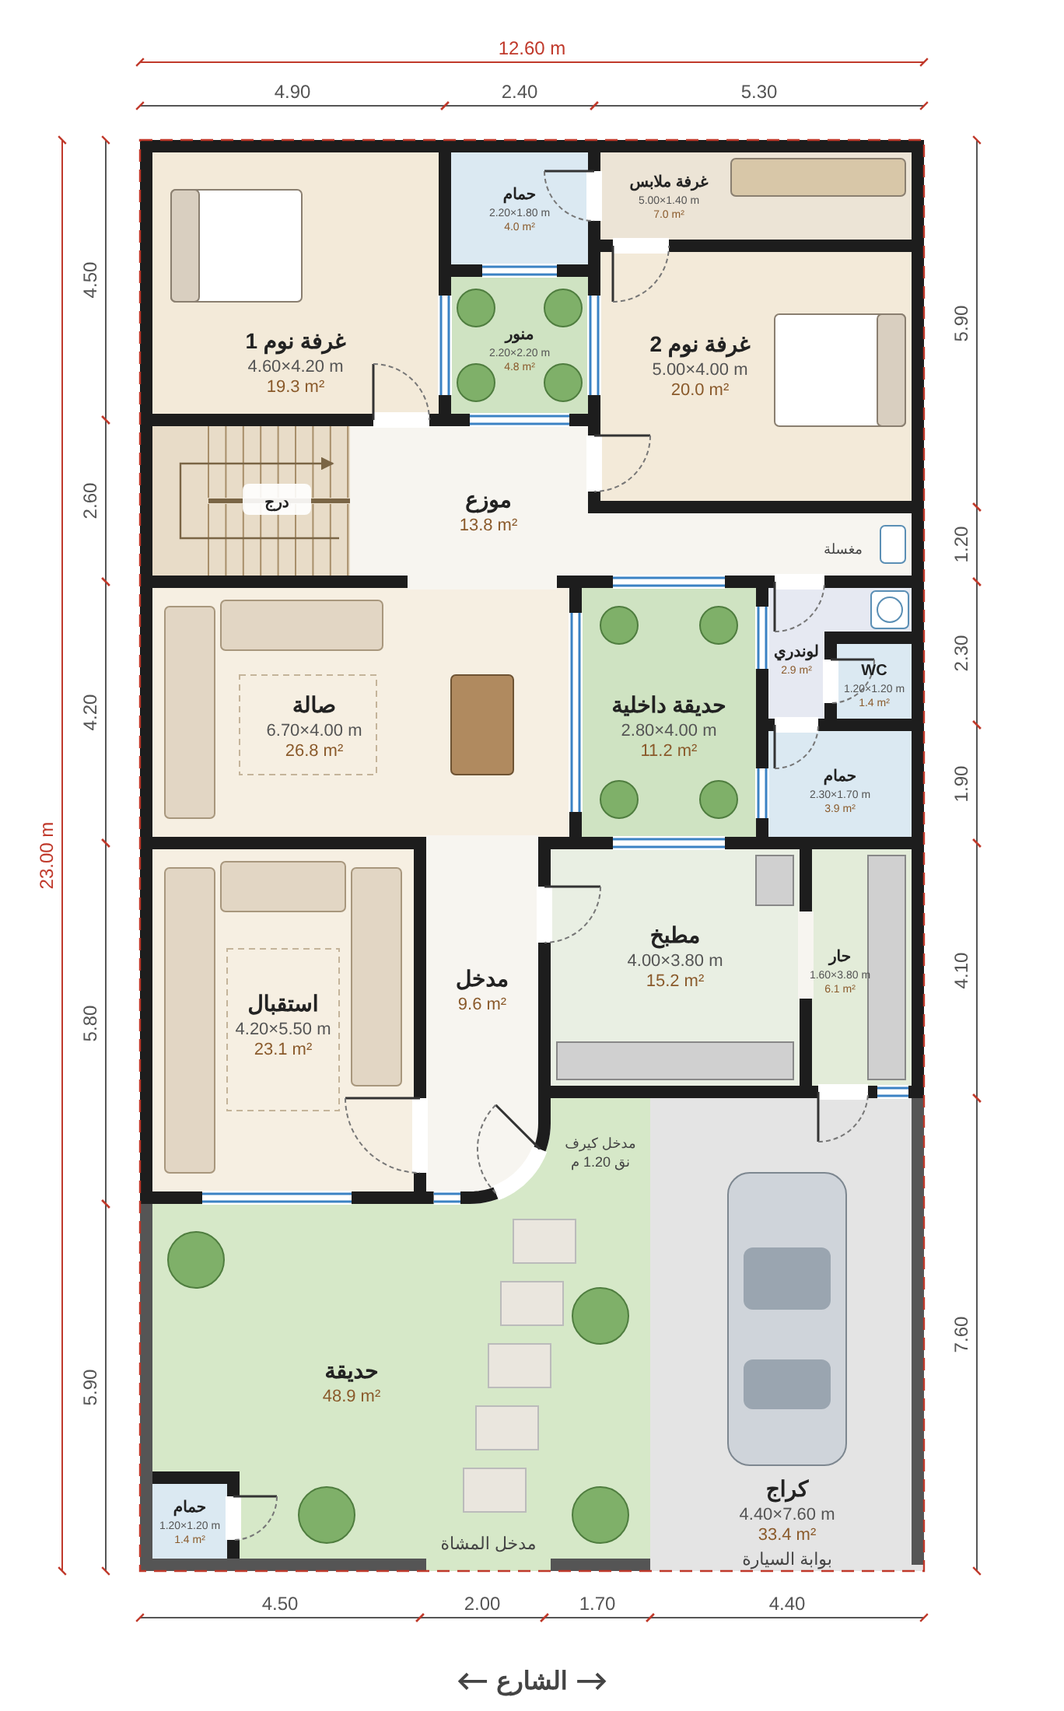
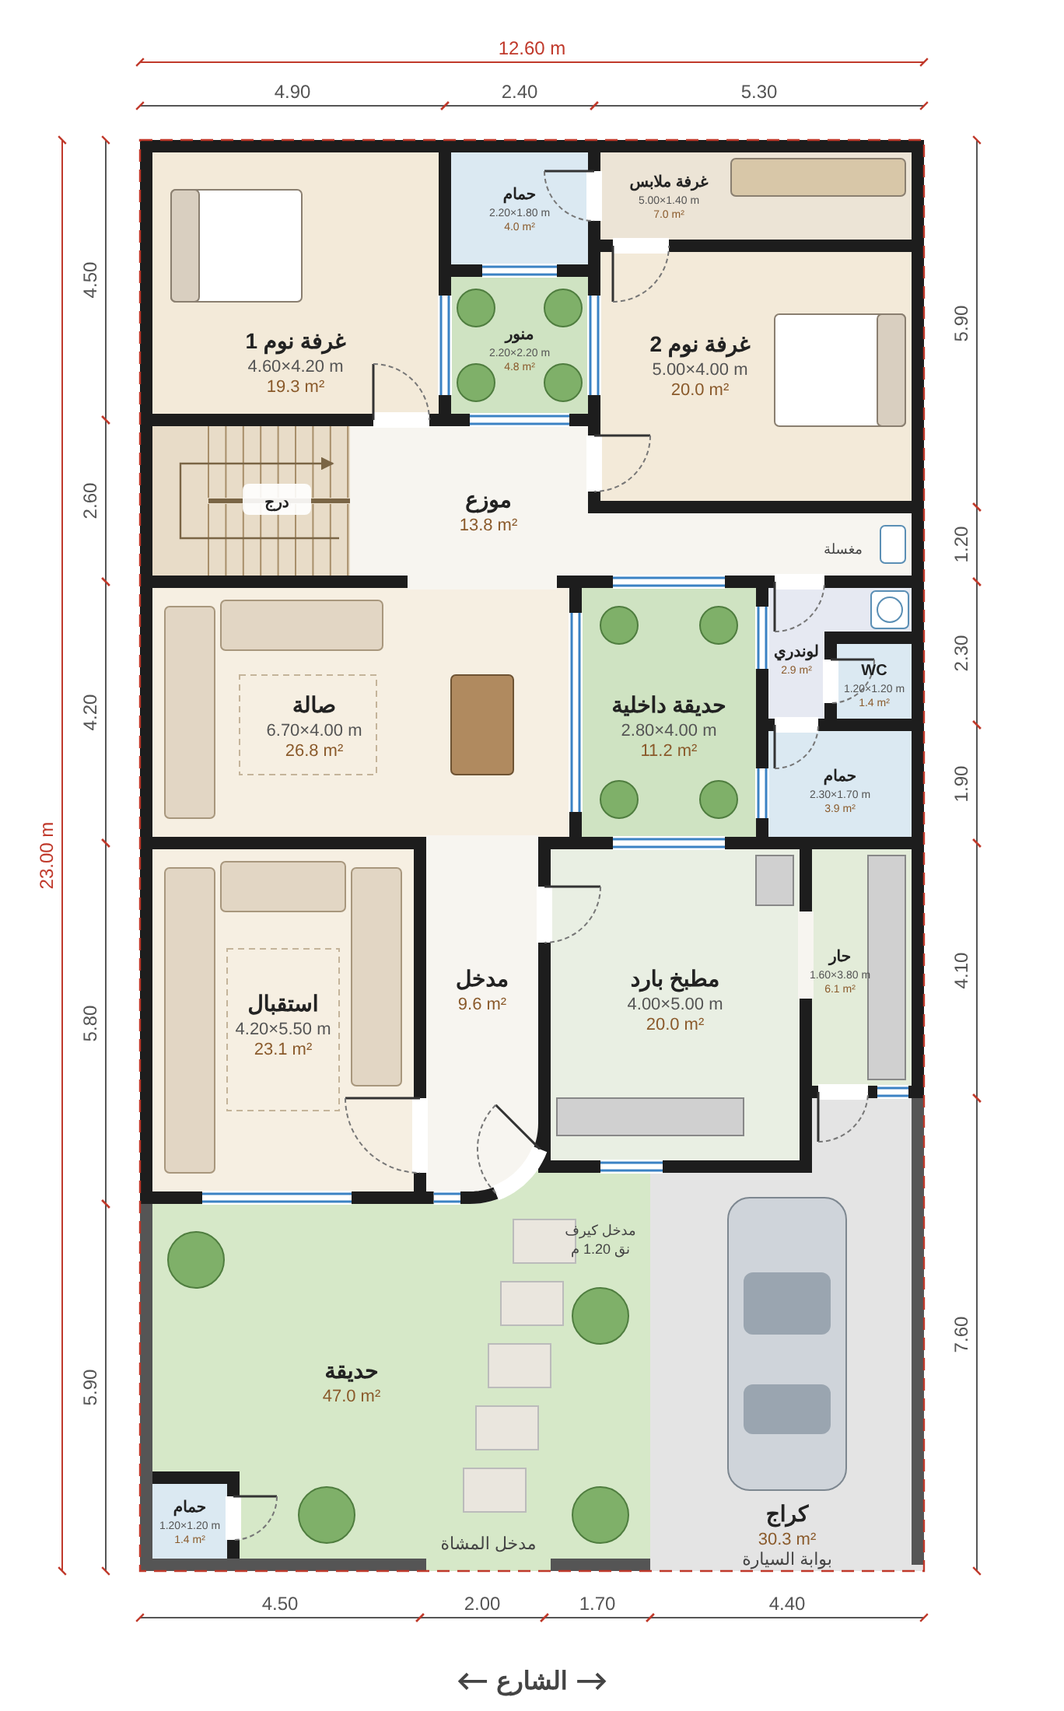
Cold kitchen to 4.00 x 5.00 m (extended south); garage reshaped
Claude-Session: https://claude.ai/code/session_014Qo95aYuqLuZ7wHDs8XfcJ

Changed region(s): [[0.4912, 0.5255, 0.7982, 0.8964]]

diff --git a/plan/index.html b/plan/index.html
@@ -12,12 +12,12 @@ td,th{border:1px solid #ddd;padding:6px 10px;font-size:14px} th{background:#f0eb
 tfoot td{font-weight:bold;background:#f7f3ec}
 </style></head><body>
 <h1>مخطط الطابق الأرضي — قطعة 12.60 م × 23.00 م</h1>
-<p>مساحة الأرض: 289.8 م² · مسطح البناء: 191.4 م² · سمك الجدران: 20 سم · المقاسات داخل الغرف صافية · الأبعاد الخارجية إلى محاور الجدران · الشارع من الأسفل</p>
+<p>مساحة الأرض: 289.8 م² · مسطح البناء: 196.5 م² · سمك الجدران: 20 سم · المقاسات داخل الغرف صافية · الأبعاد الخارجية إلى محاور الجدران · الشارع من الأسفل</p>
 <div class="wrap"><svg xmlns="http://www.w3.org/2000/svg" viewBox="0 0 684 1100" width="684" height="1100" font-family="Tahoma, Arial, sans-serif">
 <defs><marker id="arr" viewBox="0 0 10 10" refX="9" refY="5" markerWidth="7" markerHeight="7" orient="auto"><path d="M0,0 L10,5 L0,10 z" fill="#7a6545"/></marker><marker id="tk" viewBox="0 0 10 10" refX="5" refY="5" markerWidth="8" markerHeight="8" orient="auto"><path d="M2,8 L8,2" stroke="#c0392b" stroke-width="1.5"/></marker></defs>
 <rect width="684" height="1100" fill="#fff"/>
-<polygon points="418.0,706.0 594.0,706.0 594.0,1010.0 418.0,1010.0" fill="#e4e4e4"/>
-<polygon points="90.0,774.0 302.0,774.0 305.4,773.9 308.8,773.6 312.1,773.0 315.5,772.2 318.7,771.2 321.9,770.0 325.0,768.6 328.0,767.0 330.9,765.2 333.7,763.3 336.3,761.1 338.8,758.8 341.1,756.3 343.3,753.7 345.2,750.9 347.0,748.0 348.6,745.0 350.0,741.9 351.2,738.7 352.2,735.5 353.0,732.1 353.6,728.8 353.9,725.4 354.0,722.0 354.0,706.0 418.0,706.0 418.0,1010.0 154.0,1010.0 154.0,946.0 90.0,946.0" fill="#d6e8c8"/>
+<polygon points="522.0,706.0 594.0,706.0 594.0,1010.0 418.0,1010.0 418.0,754.0 522.0,754.0" fill="#e4e4e4"/>
+<polygon points="90.0,774.0 302.0,774.0 305.4,773.9 308.8,773.6 312.1,773.0 315.5,772.2 318.7,771.2 321.9,770.0 325.0,768.6 328.0,767.0 330.9,765.2 333.7,763.3 336.3,761.1 338.8,758.8 341.1,756.3 343.3,753.7 345.2,750.9 347.0,748.0 348.6,745.0 350.0,741.9 351.2,738.7 352.2,735.5 353.0,732.1 353.6,728.8 353.9,725.4 354.0,722.0 354.0,754.0 418.0,754.0 418.0,1010.0 154.0,1010.0 154.0,946.0 90.0,946.0" fill="#d6e8c8"/>
 <polygon points="94.0,94.0 286.0,94.0 286.0,270.0 94.0,270.0" fill="#f3ead9"/>
 <polygon points="286.0,94.0 382.0,94.0 382.0,174.0 286.0,174.0" fill="#dbe9f2"/>
 <polygon points="286.0,174.0 382.0,174.0 382.0,270.0 286.0,270.0" fill="#cfe3c2"/>
@@ -32,7 +32,7 @@ tfoot td{font-weight:bold;background:#f7f3ec}
 <polygon points="490.0,466.0 590.0,466.0 590.0,542.0 490.0,542.0" fill="#dbe9f2"/>
 <polygon points="94.0,542.0 270.0,542.0 270.0,770.0 94.0,770.0" fill="#f6efe2"/>
 <polygon points="270.0,542.0 350.0,542.0 350.0,722.0 349.9,725.1 349.6,728.3 349.1,731.4 348.4,734.4 347.5,737.4 346.3,740.4 345.0,743.2 343.6,746.0 341.9,748.7 340.1,751.2 338.1,753.6 335.9,755.9 333.6,758.1 331.2,760.1 328.7,761.9 326.0,763.6 323.2,765.0 320.4,766.3 317.4,767.5 314.4,768.4 311.4,769.1 308.3,769.6 305.1,769.9 302.0,770.0 270.0,770.0" fill="#f7f5f0"/>
-<polygon points="350.0,542.0 518.0,542.0 518.0,702.0 350.0,702.0" fill="#e9efe3"/>
+<polygon points="350.0,542.0 518.0,542.0 518.0,750.0 350.0,750.0" fill="#e9efe3"/>
 <polygon points="518.0,542.0 590.0,542.0 590.0,702.0 518.0,702.0" fill="#e3ecd9"/>
 <polygon points="94.0,950.0 150.0,950.0 150.0,1006.0 94.0,1006.0" fill="#dbe9f2"/>
 <rect x="110.0" y="122.0" width="84.0" height="72.0" fill="#fff" stroke="#8a7f70" rx="3" />
@@ -49,7 +49,7 @@ tfoot td{font-weight:bold;background:#f7f3ec}
 <rect x="226.0" y="558.0" width="32.0" height="140.0" fill="#e2d6c4" stroke="#a8977d" rx="3" />
 <rect x="142.0" y="554.0" width="80.0" height="32.0" fill="#e2d6c4" stroke="#a8977d" rx="3" />
 <rect x="146.0" y="610.0" width="72.0" height="104.0" fill="none" stroke="#c4b49a" rx="0" stroke-dasharray="4 3"/>
-<rect x="358.0" y="670.0" width="152.0" height="24.0" fill="#d0d0d0" stroke="#888" rx="0" />
+<rect x="358.0" y="706.0" width="120.0" height="24.0" fill="#d0d0d0" stroke="#888" rx="0" />
 <rect x="486.0" y="550.0" width="24.0" height="32.0" fill="#d0d0d0" stroke="#888" rx="0" />
 <rect x="558.0" y="550.0" width="24.0" height="144.0" fill="#d0d0d0" stroke="#888" rx="0" />
 <rect x="560.0" y="380.0" width="24.0" height="24.0" fill="#fff" stroke="#5b8fb5" rx="3" />
@@ -71,9 +71,9 @@ tfoot td{font-weight:bold;background:#f7f3ec}
 <rect x="314.0" y="864.0" width="40.0" height="28.0" fill="#eae6de" stroke="#bbb" rx="0" />
 <rect x="322.0" y="824.0" width="40.0" height="28.0" fill="#eae6de" stroke="#bbb" rx="0" />
 <rect x="330.0" y="784.0" width="40.0" height="28.0" fill="#eae6de" stroke="#bbb" rx="0" />
-<rect x="468.0" y="754.0" width="76.0" height="188.0" fill="#cfd4da" stroke="#7d8790" rx="14" />
-<rect x="478.0" y="802.0" width="56.0" height="40.0" fill="#9aa5b0" stroke="none" rx="6" />
-<rect x="478.0" y="874.0" width="56.0" height="32.0" fill="#9aa5b0" stroke="none" rx="6" />
+<rect x="468.0" y="770.0" width="76.0" height="188.0" fill="#cfd4da" stroke="#7d8790" rx="14" />
+<rect x="478.0" y="818.0" width="56.0" height="40.0" fill="#9aa5b0" stroke="none" rx="6" />
+<rect x="478.0" y="890.0" width="56.0" height="32.0" fill="#9aa5b0" stroke="none" rx="6" />
 <line x1="134.0" y1="274.0" x2="134.0" y2="320.0" stroke="#a88f6a"/>
 <line x1="134.0" y1="324.0" x2="134.0" y2="370.0" stroke="#a88f6a"/>
 <line x1="145.2" y1="274.0" x2="145.2" y2="320.0" stroke="#a88f6a"/>
@@ -108,7 +108,7 @@ tfoot td{font-weight:bold;background:#f7f3ec}
 <polygon points="490.0,466.0 590.0,466.0 590.0,542.0 490.0,542.0" fill="none" stroke="#1d1d1d" stroke-width="8.0" stroke-linejoin="miter"/>
 <polygon points="94.0,542.0 270.0,542.0 270.0,770.0 94.0,770.0" fill="none" stroke="#1d1d1d" stroke-width="8.0" stroke-linejoin="miter"/>
 <polygon points="270.0,542.0 350.0,542.0 350.0,722.0 349.9,725.1 349.6,728.3 349.1,731.4 348.4,734.4 347.5,737.4 346.3,740.4 345.0,743.2 343.6,746.0 341.9,748.7 340.1,751.2 338.1,753.6 335.9,755.9 333.6,758.1 331.2,760.1 328.7,761.9 326.0,763.6 323.2,765.0 320.4,766.3 317.4,767.5 314.4,768.4 311.4,769.1 308.3,769.6 305.1,769.9 302.0,770.0 270.0,770.0" fill="none" stroke="#1d1d1d" stroke-width="8.0" stroke-linejoin="miter"/>
-<polygon points="350.0,542.0 518.0,542.0 518.0,702.0 350.0,702.0" fill="none" stroke="#1d1d1d" stroke-width="8.0" stroke-linejoin="miter"/>
+<polygon points="350.0,542.0 518.0,542.0 518.0,750.0 350.0,750.0" fill="none" stroke="#1d1d1d" stroke-width="8.0" stroke-linejoin="miter"/>
 <polygon points="518.0,542.0 590.0,542.0 590.0,702.0 518.0,702.0" fill="none" stroke="#1d1d1d" stroke-width="8.0" stroke-linejoin="miter"/>
 <polygon points="94.0,950.0 150.0,950.0 150.0,1006.0 94.0,1006.0" fill="none" stroke="#1d1d1d" stroke-width="8.0" stroke-linejoin="miter"/>
 <polyline points="94.0,774.0 94.0,1006.0 274.0,1006.0" stroke="#555" stroke-width="8.0" fill="none"/>
@@ -182,6 +182,9 @@ tfoot td{font-weight:bold;background:#f7f3ec}
 <line x1="564.0" y1="702.0" x2="584.0" y2="702.0" stroke="#fff" stroke-width="9.0"/>
 <line x1="564.0" y1="699.5" x2="584.0" y2="699.5" stroke="#3b82c4" stroke-width="1.5"/>
 <line x1="564.0" y1="704.5" x2="584.0" y2="704.5" stroke="#3b82c4" stroke-width="1.5"/>
+<line x1="386.0" y1="750.0" x2="426.0" y2="750.0" stroke="#fff" stroke-width="9.0"/>
+<line x1="386.0" y1="747.5" x2="426.0" y2="747.5" stroke="#3b82c4" stroke-width="1.5"/>
+<line x1="386.0" y1="752.5" x2="426.0" y2="752.5" stroke="#3b82c4" stroke-width="1.5"/>
 <line x1="130.0" y1="770.0" x2="226.0" y2="770.0" stroke="#fff" stroke-width="9.0"/>
 <line x1="130.0" y1="767.5" x2="226.0" y2="767.5" stroke="#3b82c4" stroke-width="1.5"/>
 <line x1="130.0" y1="772.5" x2="226.0" y2="772.5" stroke="#3b82c4" stroke-width="1.5"/>
@@ -191,8 +194,8 @@ tfoot td{font-weight:bold;background:#f7f3ec}
 <polyline points="347.0,738.7 345.7,741.9 344.1,745.0 342.4,747.9 340.4,750.7 338.3,753.4 335.9,755.9 333.4,758.3 330.7,760.4 327.9,762.4 325.0,764.1 321.9,765.7 318.7,767.0" fill="none" stroke="#fff" stroke-width="10.0"/>
 <line x1="347.0" y1="738.7" x2="318.7" y2="710.4" stroke="#333" stroke-width="1.5"/>
 <path d="M318.7,710.4 A40.0,40.0 0 0 0 318.7,767.0" fill="none" stroke="#777" stroke-dasharray="3 2"/>
-<text x="386.0" y="738.0" text-anchor="middle" font-size="9" fill="#444">مدخل كيرف</text>
-<text x="386.0" y="750.0" text-anchor="middle" font-size="9" fill="#444">نق 1.20 م</text>
+<text x="386.0" y="794.0" text-anchor="middle" font-size="9" fill="#444">مدخل كيرف</text>
+<text x="386.0" y="806.0" text-anchor="middle" font-size="9" fill="#444">نق 1.20 م</text>
 <text x="190.0" y="224.0" text-anchor="middle" font-size="14" font-weight="bold" fill="#222">غرفة نوم 1</text>
 <text x="190.0" y="239.0" text-anchor="middle" font-size="11" fill="#555">4.60×4.20 m</text>
 <text x="190.0" y="252.0" text-anchor="middle" font-size="11" fill="#8a5a2b">19.3 m²</text>
@@ -231,20 +234,19 @@ tfoot td{font-weight:bold;background:#f7f3ec}
 <text x="182.0" y="678.0" text-anchor="middle" font-size="11" fill="#8a5a2b">23.1 m²</text>
 <text x="310.0" y="634.0" text-anchor="middle" font-size="14" font-weight="bold" fill="#222">مدخل</text>
 <text x="310.0" y="649.0" text-anchor="middle" font-size="11" fill="#8a5a2b">9.6 m²</text>
-<text x="434.0" y="606.0" text-anchor="middle" font-size="14" font-weight="bold" fill="#222">مطبخ</text>
-<text x="434.0" y="621.0" text-anchor="middle" font-size="11" fill="#555">4.00×3.80 m</text>
-<text x="434.0" y="634.0" text-anchor="middle" font-size="11" fill="#8a5a2b">15.2 m²</text>
+<text x="434.0" y="634.0" text-anchor="middle" font-size="14" font-weight="bold" fill="#222">مطبخ بارد</text>
+<text x="434.0" y="649.0" text-anchor="middle" font-size="11" fill="#555">4.00×5.00 m</text>
+<text x="434.0" y="662.0" text-anchor="middle" font-size="11" fill="#8a5a2b">20.0 m²</text>
 <text x="540.0" y="618.0" text-anchor="middle" font-size="10" font-weight="bold" fill="#222">حار</text>
 <text x="540.0" y="629.0" text-anchor="middle" font-size="7" fill="#555">1.60×3.80 m</text>
 <text x="540.0" y="638.0" text-anchor="middle" font-size="7" fill="#8a5a2b">6.1 m²</text>
 <text x="122.0" y="972.0" text-anchor="middle" font-size="10" font-weight="bold" fill="#222">حمام</text>
 <text x="122.0" y="983.0" text-anchor="middle" font-size="7" fill="#555">1.20×1.20 m</text>
 <text x="122.0" y="992.0" text-anchor="middle" font-size="7" fill="#8a5a2b">1.4 m²</text>
-<text x="506.0" y="962.0" text-anchor="middle" font-size="14" font-weight="bold" fill="#222">كراج</text>
-<text x="506.0" y="977.0" text-anchor="middle" font-size="11" fill="#555">4.40×7.60 m</text>
-<text x="506.0" y="990.0" text-anchor="middle" font-size="11" fill="#8a5a2b">33.4 m²</text>
+<text x="506.0" y="978.0" text-anchor="middle" font-size="14" font-weight="bold" fill="#222">كراج</text>
+<text x="506.0" y="993.0" text-anchor="middle" font-size="11" fill="#8a5a2b">30.3 m²</text>
 <text x="226.0" y="886.0" text-anchor="middle" font-size="14" font-weight="bold" fill="#222">حديقة</text>
-<text x="226.0" y="901.0" text-anchor="middle" font-size="11" fill="#8a5a2b">48.9 m²</text>
+<text x="226.0" y="901.0" text-anchor="middle" font-size="11" fill="#8a5a2b">47.0 m²</text>
 <line x1="90" y1="40" x2="594.0" y2="40" stroke="#c0392b" marker-start="url(#tk)" marker-end="url(#tk)"/>
 <text x="342.0" y="35" text-anchor="middle" font-size="12" fill="#c0392b">12.60 m</text>
 <line x1="90" y1="68" x2="286.0" y2="68" stroke="#555" marker-start="url(#tk)" marker-end="url(#tk)"/>
@@ -291,11 +293,11 @@ tfoot td{font-weight:bold;background:#f7f3ec}
 <text x="506.0" y="1006.0" text-anchor="middle" font-size="11" fill="#444">بوابة السيارة</text>
 </svg>
 <table><thead><tr><th>الفراغ</th><th>المقاس الصافي (م)</th><th>المساحة الصافية م²</th></tr></thead>
-<tbody><tr><td>غرفة نوم 1</td><td dir='ltr'>4.60 × 4.20</td><td dir='ltr'>19.32</td></tr><tr><td>حمام</td><td dir='ltr'>2.20 × 1.80</td><td dir='ltr'>3.96</td></tr><tr><td>منور</td><td dir='ltr'>2.20 × 2.20</td><td dir='ltr'>4.84</td></tr><tr><td>غرفة ملابس</td><td dir='ltr'>5.00 × 1.40</td><td dir='ltr'>7.00</td></tr><tr><td>غرفة نوم 2</td><td dir='ltr'>5.00 × 4.00</td><td dir='ltr'>20.00</td></tr><tr><td>درج</td><td dir='ltr'>3.20 × 2.40</td><td dir='ltr'>7.68</td></tr><tr><td>موزع</td><td dir='ltr'>—</td><td dir='ltr'>13.84</td></tr><tr><td>صالة</td><td dir='ltr'>6.70 × 4.00</td><td dir='ltr'>26.80</td></tr><tr><td>حديقة داخلية</td><td dir='ltr'>2.80 × 4.00</td><td dir='ltr'>11.20</td></tr><tr><td>لوندري</td><td dir='ltr'>—</td><td dir='ltr'>2.87</td></tr><tr><td>WC</td><td dir='ltr'>1.20 × 1.20</td><td dir='ltr'>1.44</td></tr><tr><td>حمام</td><td dir='ltr'>2.30 × 1.70</td><td dir='ltr'>3.91</td></tr><tr><td>استقبال</td><td dir='ltr'>4.20 × 5.50</td><td dir='ltr'>23.10</td></tr><tr><td>مدخل</td><td dir='ltr'>—</td><td dir='ltr'>9.64</td></tr><tr><td>مطبخ</td><td dir='ltr'>4.00 × 3.80</td><td dir='ltr'>15.20</td></tr><tr><td>مطبخ حار</td><td dir='ltr'>1.60 × 3.80</td><td dir='ltr'>6.08</td></tr><tr><td>حمام خارجي</td><td dir='ltr'>1.20 × 1.20</td><td dir='ltr'>1.44</td></tr></tbody>
+<tbody><tr><td>غرفة نوم 1</td><td dir='ltr'>4.60 × 4.20</td><td dir='ltr'>19.32</td></tr><tr><td>حمام</td><td dir='ltr'>2.20 × 1.80</td><td dir='ltr'>3.96</td></tr><tr><td>منور</td><td dir='ltr'>2.20 × 2.20</td><td dir='ltr'>4.84</td></tr><tr><td>غرفة ملابس</td><td dir='ltr'>5.00 × 1.40</td><td dir='ltr'>7.00</td></tr><tr><td>غرفة نوم 2</td><td dir='ltr'>5.00 × 4.00</td><td dir='ltr'>20.00</td></tr><tr><td>درج</td><td dir='ltr'>3.20 × 2.40</td><td dir='ltr'>7.68</td></tr><tr><td>موزع</td><td dir='ltr'>—</td><td dir='ltr'>13.84</td></tr><tr><td>صالة</td><td dir='ltr'>6.70 × 4.00</td><td dir='ltr'>26.80</td></tr><tr><td>حديقة داخلية</td><td dir='ltr'>2.80 × 4.00</td><td dir='ltr'>11.20</td></tr><tr><td>لوندري</td><td dir='ltr'>—</td><td dir='ltr'>2.87</td></tr><tr><td>WC</td><td dir='ltr'>1.20 × 1.20</td><td dir='ltr'>1.44</td></tr><tr><td>حمام</td><td dir='ltr'>2.30 × 1.70</td><td dir='ltr'>3.91</td></tr><tr><td>استقبال</td><td dir='ltr'>4.20 × 5.50</td><td dir='ltr'>23.10</td></tr><tr><td>مدخل</td><td dir='ltr'>—</td><td dir='ltr'>9.64</td></tr><tr><td>مطبخ</td><td dir='ltr'>4.00 × 5.00</td><td dir='ltr'>20.00</td></tr><tr><td>مطبخ حار</td><td dir='ltr'>1.60 × 3.80</td><td dir='ltr'>6.08</td></tr><tr><td>حمام خارجي</td><td dir='ltr'>1.20 × 1.20</td><td dir='ltr'>1.44</td></tr></tbody>
 <tfoot><tr><td colspan="2">مساحة الأرض</td><td dir='ltr'>289.80</td></tr>
 <tr><td colspan="2">المنور + الحديقة الداخلية (مكشوفة)</td><td dir='ltr'>16.04</td></tr>
-<tr><td colspan="2">مسطح البناء الرئيسي (مع الجدران)</td><td dir='ltr'>188.86</td></tr>
+<tr><td colspan="2">مسطح البناء الرئيسي (مع الجدران)</td><td dir='ltr'>193.90</td></tr>
 <tr><td colspan="2">الحمام الخارجي (مع الجدران)</td><td dir='ltr'>2.56</td></tr>
-<tr><td colspan="2">مسطح البناء الكلي</td><td dir='ltr'>191.42</td></tr>
-<tr><td colspan="2">مجموع المساحات الصافية للغرف</td><td dir='ltr'>162.28</td></tr></tfoot></table></div>
+<tr><td colspan="2">مسطح البناء الكلي</td><td dir='ltr'>196.46</td></tr>
+<tr><td colspan="2">مجموع المساحات الصافية للغرف</td><td dir='ltr'>167.08</td></tr></tfoot></table></div>
 </body></html>

diff --git a/plan/generate.py b/plan/generate.py
@@ -42,18 +42,18 @@ rooms = [
     ("حمام", R(10.0, 9.4, 12.5, 11.3), "#dbe9f2", "wet"),
     ("استقبال", R(0.1, 11.3, 4.5, E1), "#f6efe2", "room"),
     ("مدخل", entrance, "#f7f5f0", "circ"),
-    ("مطبخ", R(6.5, 11.3, 10.7, E2), "#e9efe3", "room"),
+    ("مطبخ", R(6.5, 11.3, 10.7, 16.5), "#e9efe3", "room"),   # المطبخ البارد 4.00 × 5.00 م
     ("مطبخ حار", R(10.7, 11.3, 12.5, E2), "#e3ecd9", "room"),
     ("حمام خارجي", R(0.1, 21.5, 1.5, 22.9), "#dbe9f2", "wet"),
 ]
 OB = R(0, 21.4, 1.6, 23.0)   # الحد الخارجي للحمام الخارجي
 garden = ([(0, D1)] + arc(CX, CY, CR + T / 2, 90, 0) +
-          [(6.6, D2), (8.2, D2), (8.2, 23.0), (1.6, 23.0), (1.6, 21.4), (0, 21.4)])
+          [(6.6, 16.6), (8.2, 16.6), (8.2, 23.0), (1.6, 23.0), (1.6, 21.4), (0, 21.4)])
 outside = [
-    ("كراج", R(8.2, D2, 12.6, 23.0), "#e4e4e4"),
+    ("كراج", [(10.8, D2), (12.6, D2), (12.6, 23.0), (8.2, 23.0), (8.2, 16.6), (10.8, 16.6)], "#e4e4e4"),
     ("حديقة", garden, "#d6e8c8"),
 ]
-display = {"مطبخ حار": "حار", "حمام خارجي": "حمام"}
+display = {"مطبخ حار": "حار", "حمام خارجي": "حمام", "مطبخ": "مطبخ بارد"}
 
 # الأبواب: (h/v, محور الجدار, من, إلى, جهة الفتح[, "b" = المفصلة عند النهاية])
 doors = [
@@ -76,7 +76,7 @@ windows = [
     ("v", 4.9, 2.5, 4.1), ("v", 7.3, 2.5, 4.1), ("h", 2.1, 5.5, 6.7), ("h", 4.5, 5.3, 6.9),   # على المنور
     ("v", 7.0, 7.6, 10.8), ("h", 7.1, 7.6, 9.4), ("h", 11.3, 7.6, 9.4),                       # صالة وموزع ومطبخ ← حديقة داخلية
     ("v", 10.0, 7.5, 8.5), ("v", 10.0, 10.1, 10.9),                                           # لوندري وحمام ← حديقة داخلية
-    ("h", E2, 11.85, 12.35),                                                                  # مطبخ حار ← كراج
+    ("h", E2, 11.85, 12.35), ("h", 16.5, 7.4, 8.4),                                                                  # مطبخ حار ← كراج
     ("h", E1, 1.0, 3.4), ("h", E1, 4.72, 5.15),                                               # استقبال ومدخل ← حديقة أمامية
 ]
 
@@ -142,7 +142,7 @@ rect(0.4, 11.7, 0.8, 4.9, "#e2d6c4", "#a8977d"); rect(3.4, 11.7, 0.8, 3.5, "#e2d
 rect(1.3, 11.6, 2.0, 0.8, "#e2d6c4", "#a8977d")
 rect(1.4, 13.0, 1.8, 2.6, "none", "#c4b49a", 0, 'stroke-dasharray="4 3"')
 # مطبخ: كاونتر
-rect(6.7, E2 - 0.8, 3.8, 0.6, "#d0d0d0", "#888", 0); rect(9.9, 11.5, 0.6, 0.8, "#d0d0d0", "#888", 0)
+rect(6.7, 15.4, 3.0, 0.6, "#d0d0d0", "#888", 0); rect(9.9, 11.5, 0.6, 0.8, "#d0d0d0", "#888", 0)
 rect(11.7, 11.5, 0.6, 3.6, "#d0d0d0", "#888", 0)
 # لوندري: غسالة
 rect(11.75, 7.25, 0.6, 0.6, "#fff", "#5b8fb5")
@@ -155,8 +155,8 @@ for cx, cy in [(0.9, 18.0), (7.4, 18.9), (3.0, 22.1), (7.4, 22.1)]:
 for i in range(5):                                # ممر من بوابة المشاة إلى باب الكيرف
     rect(5.2 + 0.2 * i, 21.35 - 1.0 * i, 1.0, 0.7, "#eae6de", "#bbb", 0)
 # سيارة
-rect(9.45, 16.6, 1.9, 4.7, "#cfd4da", "#7d8790", 14); rect(9.7, 17.8, 1.4, 1.0, "#9aa5b0", "none", 6)
-rect(9.7, 19.6, 1.4, 0.8, "#9aa5b0", "none", 6)
+rect(9.45, 17.0, 1.9, 4.7, "#cfd4da", "#7d8790", 14); rect(9.7, 18.2, 1.4, 1.0, "#9aa5b0", "none", 6)
+rect(9.7, 20.0, 1.4, 0.8, "#9aa5b0", "none", 6)
 # الدرج (شكل U)
 sx0, sy0, sx1, sy1 = 0.2, 4.6, 3.4, 7.0
 mid = (sy0 + sy1) / 2
@@ -219,13 +219,13 @@ a0 = math.atan2(leaf[1] - pa[1], leaf[0] - pa[0]); a1 = math.atan2(pb[1] - pa[1]
 delta = (a1 - a0 + math.pi) % (2 * math.pi) - math.pi
 o.append(f'<path d="M{X(leaf[0]):.1f},{Y(leaf[1]):.1f} A{DW*S},{DW*S} 0 0 {1 if delta > 0 else 0} {X(pb[0]):.1f},{Y(pb[1]):.1f}" '
          f'fill="none" stroke="#777" stroke-dasharray="3 2"/>')
-o.append(f'<text x="{X(7.4)}" y="{Y(16.2)}" text-anchor="middle" font-size="9" fill="#444">مدخل كيرف</text>')
-o.append(f'<text x="{X(7.4)}" y="{Y(16.5)}" text-anchor="middle" font-size="9" fill="#444">نق 1.20 م</text>')
+o.append(f'<text x="{X(7.4)}" y="{Y(17.6)}" text-anchor="middle" font-size="9" fill="#444">مدخل كيرف</text>')
+o.append(f'<text x="{X(7.4)}" y="{Y(17.9)}" text-anchor="middle" font-size="9" fill="#444">نق 1.20 م</text>')
 
 # --- التسميات ---
 label_pos = {"موزع": (5.6, 5.9), "غرفة نوم 1": (2.5, 3.35), "غرفة نوم 2": (9.0, 3.4), "صالة": (2.8, 9.2),
              "استقبال": (2.3, 14.0), "مدخل": (5.5, 13.6), "درج": (2.2, 5.9), "غرفة ملابس": (8.5, 0.75),
-             "مطبخ": (8.6, 12.9), "مطبخ حار": (11.25, 13.2), "كراج": (10.4, 21.8), "حديقة": (3.4, 19.9),
+             "مطبخ": (8.6, 13.6), "مطبخ حار": (11.25, 13.2), "كراج": (10.4, 22.2), "حديقة": (3.4, 19.9),
              "منور": (6.1, 3.2), "حديقة داخلية": (8.5, 9.2), "لوندري": (10.55, 8.3), "WC": (11.8, 8.6),
              ("حمام", 10.0): (11.25, 10.3), "حمام خارجي": (0.8, 22.05)}
 def label(name, poly, show=True, clear=True):
@@ -274,7 +274,7 @@ o.append('</svg>')
 svg = "\n".join(o)
 
 # --- الحسابات ---
-outer = [(0, 0), (W, 0), (W, D2), (6.6, D2)] + arc(CX, CY, CR + T / 2, 0, 90) + [(0, D1)]
+outer = [(0, 0), (W, 0), (W, D2), (10.8, D2), (10.8, 16.6), (6.6, 16.6), (6.6, CY)] + arc(CX, CY, CR + T / 2, 0, 90) + [(0, D1)]
 footprint = area(outer)
 voids = sum(clear_area(p) for n, p, c, k in rooms if k == "void")
 built_main = footprint - voids
